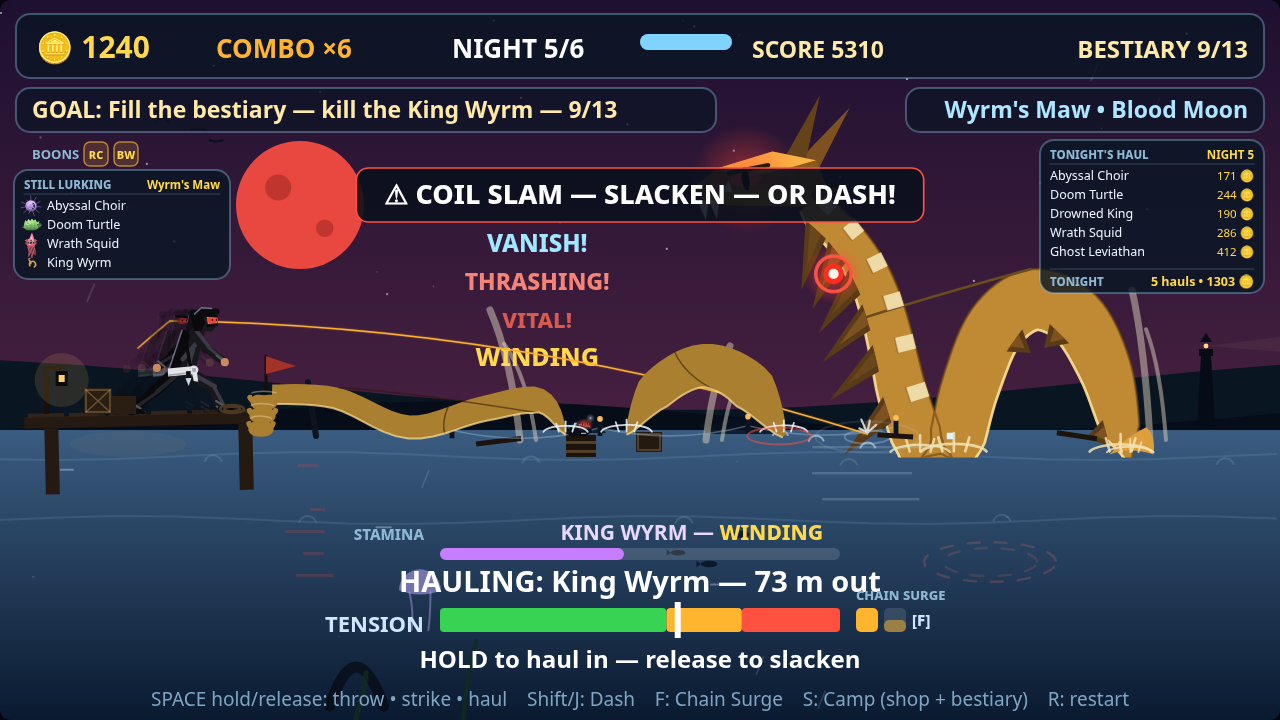
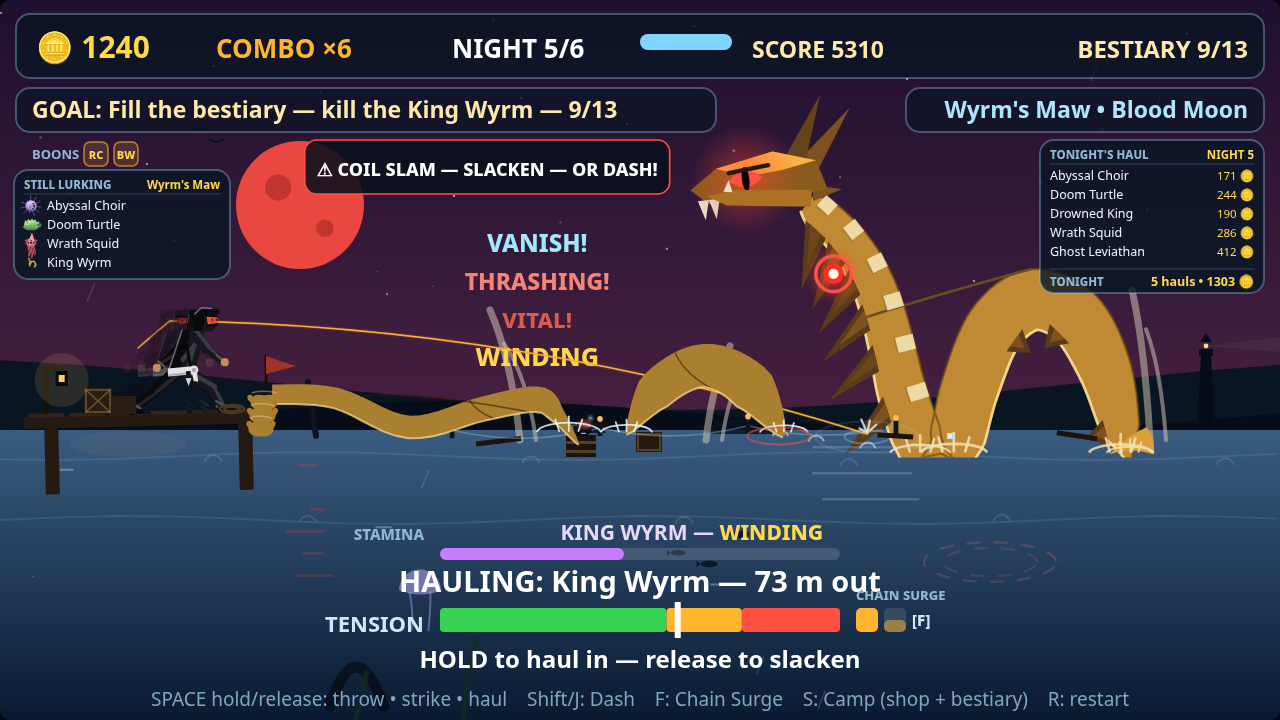
WYRMWAKE: tapered front dive

Changed region(s): [[0.2188, 0.1833, 0.75, 0.3361], [0.4062, 0.55, 0.4688, 0.6111], [0.3438, 0.55, 0.375, 0.5806]]

diff --git a/game/src/theatre.js b/game/src/theatre.js
@@ -87,7 +87,7 @@ function drawHarpoonTrail(ctx, run, t) {
 // One stretch of the swimming body as a tapered ribbon along a smooth
 // curve — gold, banded with scales, moonlit on its top edge. Drawn in
 // humps with water between them, it reads as a back crossing the sea.
-function loopRibbon(ctx, pts, w0, w1, tipStart = 1, tipEnd = 1) {
+function loopRibbon(ctx, pts, w0, w1, tipStart = 1, tipEnd = 1, tipLen = 0.22) {
   const S = [];
   const at = (i) => pts[Math.max(0, Math.min(pts.length - 1, i))];
   for (let i = 0; i < pts.length - 1; i++) {
@@ -109,8 +109,8 @@ function loopRibbon(ctx, pts, w0, w1, tipStart = 1, tipEnd = 1) {
     // end runs out to a fine point — no flat cap ever breaks the water
     let w = w0 + (w1 - w0) * (i / (S.length - 1));
     const u = i / (S.length - 1);
-    if (tipStart < 1) w *= tipStart + (1 - tipStart) * Math.min(1, u / 0.22);
-    if (tipEnd < 1) w *= tipEnd + (1 - tipEnd) * Math.min(1, (1 - u) / 0.22);
+    if (tipStart < 1) w *= tipStart + (1 - tipStart) * Math.min(1, u / tipLen);
+    if (tipEnd < 1) w *= tipEnd + (1 - tipEnd) * Math.min(1, (1 - u) / tipLen);
     L.push([S[i][0] - dy * w, S[i][1] + dx * w]);
     R.push([S[i][0] + dy * w, S[i][1] - dx * w]);
   }
@@ -165,13 +165,17 @@ function drawWyrmTheatre(ctx, run, t) {
     [g.x - g.s * 1.30, W - g.s * 0.28 + bob], [g.x - g.s * 1.50, W + 4],
   ], g.s * 0.16, g.s * 0.11, 0.08, 0.05); // out of his flank to a point, a tall arc, a steep dive to a point
   loopRibbon(ctx, [
-    [g.x - g.s * 1.88, W + 4], [g.x - g.s * 2.04, W - g.s * 0.20 + bob], [g.x - g.s * 2.40, W - g.s * 0.15 + bob],
+    [g.x - g.s * 1.80, W + 14], [g.x - g.s * 1.93, W - g.s * 0.11 + bob], [g.x - g.s * 2.06, W - g.s * 0.21 + bob],
+    [g.x - g.s * 2.40, W - g.s * 0.15 + bob],
     [(g.x - g.s * 2.40 + 336) / 2, W - 6 + bob], // a shallow sag in the long
     [336, 398], [272, 394], // run to the post — a swimming back, not a slide
-  ], g.s * 0.09, g.s * 0.06, 0.05, 1); // rises steep from a point; the post
+  ], g.s * 0.09, g.s * 0.06, 0.04, 1, 0.30); // the front end TAPERS down a
+  // long snout — thinner and thinner toward the crossing — and slips
+  // under the surface as a rounded point, never a thick rounded stub
   foamCollar(ctx, g.x - g.s * 0.52, W + 3, g.s * 0.15);
   foamCollar(ctx, g.x - g.s * 1.50, W + 3, g.s * 0.16);
-  foamCollar(ctx, g.x - g.s * 1.88, W + 3, g.s * 0.14);
+  foamCollar(ctx, g.x - g.s * 1.86, W + 3, g.s * 0.20); // a crown scaled to
+  // swallow the front dive's crossing whole
   ctx.lineCap = 'round';
   for (let i = 0; i < 3; i++) { // the coil: three wraps stepping down the
     const cy = 397 + i * 13, rx = 14 - i, ry = 5.5 + i * 0.5; // post — each
@@ -321,33 +325,43 @@ function drawBanner(ctx, run, t) {
   const f = run.fight;
   if (!f || !f.event) return;
   const e = f.event;
+  // the banner heads the callout stack: raised into the open sky and
+  // shifted left of the stack's column, because the rearing head
+  // reaches further left than the neck suggests — measured on a
+  // banner-free frame, its gold stands at x≈711 (y≈198) with the
+  // snout's fangs at x≈695 below y≈205. Centred on calloutX the box
+  // would meet the face at any readable width, so it sits 50 left:
+  // right edge ≈668, a clear 20+ px of sky from the dragon at every
+  // row it spans. It may rest on the moon's edge (background),
+  // never on the dragon.
+  const cx = calloutX(run) - 50;
   if (e.phase === 'tele') {
     const info = ABILITY_INFO[e.id];
     if (!info) return;
     const label = `⚠ ${info.word} — ${info.counter}`;
-    ctx.font = "800 27px system-ui, 'Segoe UI', sans-serif";
-    const w = ctx.measureText(label).width + 56;
-    const x = 640 - w / 2;
+    ctx.font = "800 18px system-ui, 'Segoe UI', sans-serif";
+    const w = ctx.measureText(label).width + 24;
+    const bx = Math.max(w / 2 + 8, Math.min(1272 - w / 2, cx));
     ctx.fillStyle = 'rgba(9,16,28,0.88)';
     ctx.beginPath();
-    ctx.roundRect(x, 168, w, 54, 12);
+    ctx.roundRect(bx - w / 2, 140, w, 54, 12);
     ctx.fill();
     ctx.strokeStyle = BANNER_COLORS[e.id];
     ctx.lineWidth = 2 + Math.sin(t * 12) * 0.7;
     ctx.stroke();
     ctx.textAlign = 'center';
     ctx.fillStyle = '#ffffff';
-    ctx.fillText(label, 640, 204);
+    ctx.fillText(label, bx, 176);
   } else if (e.id === 'phase') {
     ctx.font = "700 19px system-ui, 'Segoe UI', sans-serif";
     ctx.textAlign = 'center';
     ctx.fillStyle = 'rgba(199,125,255,0.9)';
-    ctx.fillText('THE CHAIN HANGS SLACK — HAULING DOES NOTHING', 640, 208);
+    ctx.fillText('THE CHAIN HANGS SLACK — HAULING DOES NOTHING', cx, 176);
   } else if (e.id === 'armor') {
     ctx.font = "700 19px system-ui, 'Segoe UI', sans-serif";
     ctx.textAlign = 'center';
     ctx.fillStyle = 'rgba(255,181,46,0.9)';
-    ctx.fillText('ARMORED — ONLY THE WEAK POINT DRAINS IT', 640, 208);
+    ctx.fillText('ARMORED — ONLY THE WEAK POINT DRAINS IT', cx, 176);
   }
 }
 
